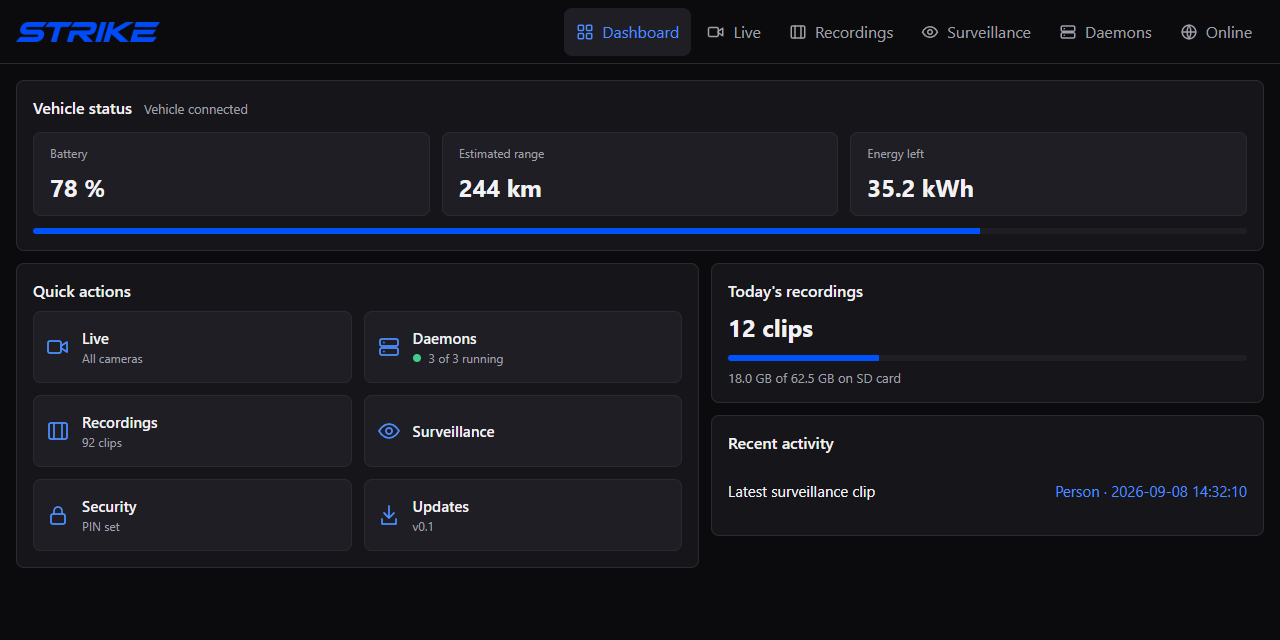
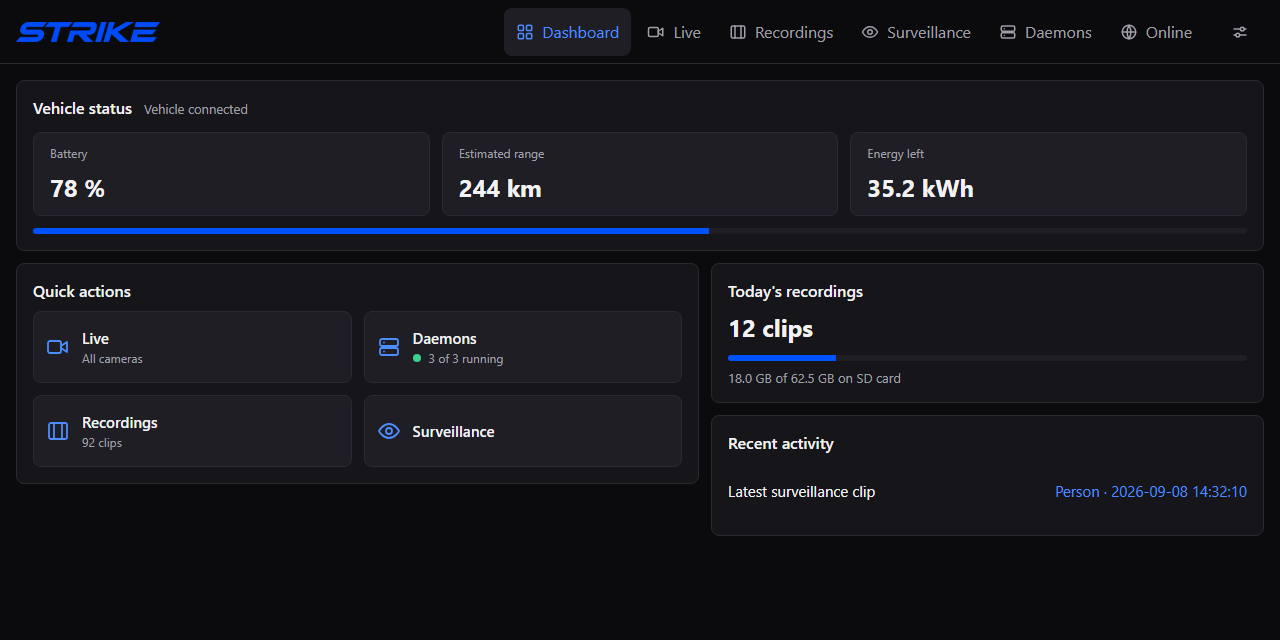
docs: refresh screenshots for the settings page

diff --git a/README.md b/README.md
@@ -89,7 +89,7 @@ computer that can reach the car's network. Enter the **Browser access** code
 shown in the car. The browser remembers the session for 90 days.
 
 This code protects both local and remote access. Regenerating it signs out all
-browsers. The optional in-car PIN is separate. Local addresses use HTTP, so use a
+browsers. The optional in-car PIN in **Settings → Security** is separate. Local addresses use HTTP, so use a
 trusted network.
 
 ![Online page with Cloudflare tunnel controls, local address, and masked browser access code](art/screenshots/online.png)
@@ -144,6 +144,8 @@ The updater finishes the current clip before installation and restores recording
 afterward if it was running. If the clip cannot finish, installation is cancelled.
 Settings and saved footage are kept. In-app installation needs authorized ADB
 access and an APK signed with the same key as the installed version.
+
+![Settings page with installed and latest versions, release notes, and the in-car PIN control](art/screenshots/settings.png)
 
 ## PIN recovery
 
